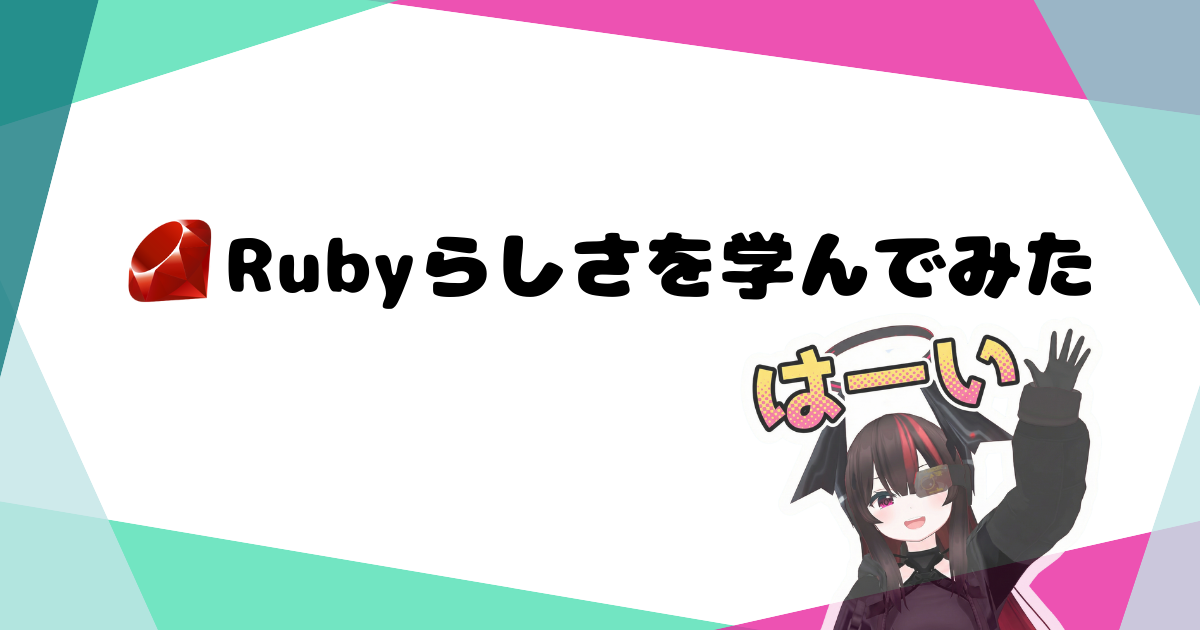
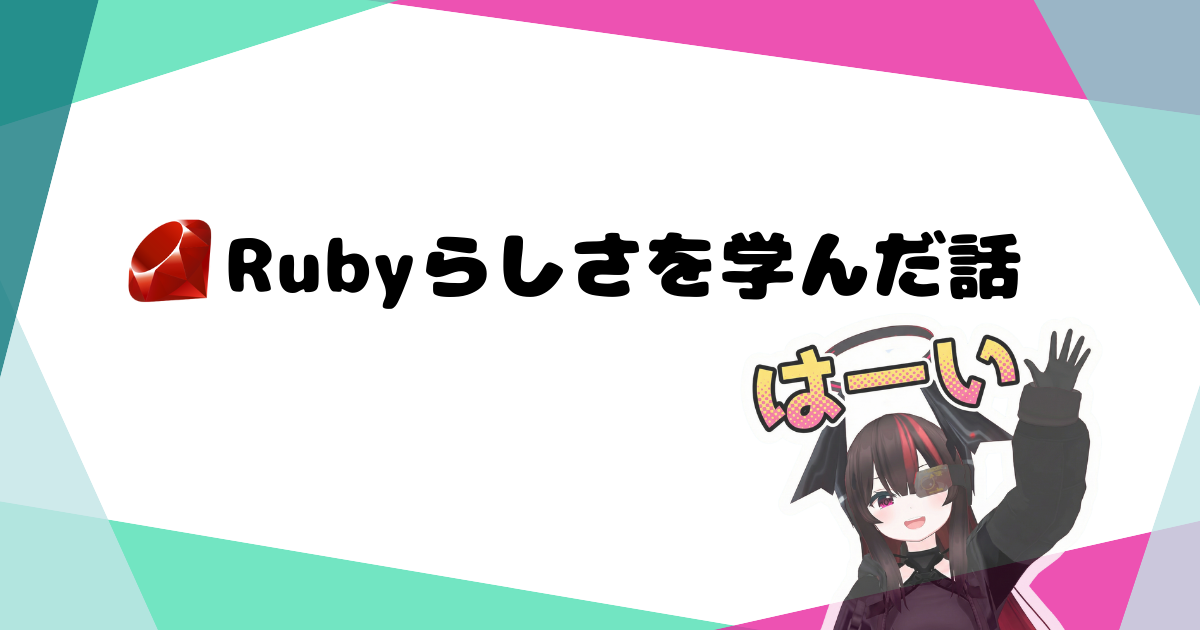
new-article: Rubyらしさを学んだ話

Changed region(s): [[0.7092, 0.3619, 0.925, 0.4825]]

diff --git a/_posts/Rubyish.md b/_posts/Rubyish.md
@@ -1,6 +1,6 @@
 --- 
 slug: Rubyish
-title: Rubyらしさを学んでみた
+title: Rubyらしさを学んだ話
 date: 2026-01-15
 description: Rubyを学び直しました。この記事ではRubyの文法Rubyらしい書き方の好きなところを書き残しておこうと思います。
 tags:
@@ -300,7 +300,7 @@ array.sort_by { |item| item[:name] }
 
 シンボルの応用として、非常にRubyらしい省略記法があります。それは`Symbol#to_proc`、通称`&:`（アンドコロン）記法と呼ばれるものです。これはブロックの引数が1つで、その引数に対してメソッドを1つ呼び出すだけの場合にコードを劇的に短くします。
 
-実行速度的には大きな差はないため完全に可読性で判断されることが多い
+実行速度的には大きな差はないため完全に可読性で判断されることが多いそう
 
 こんなの👇
 
@@ -369,7 +369,7 @@ names = users.map { |u| u[:name] }  # 通常
 # &では直接キーアクセスできない（メソッドじゃないから）
 ```
 
-この記法は非常に便利ですが、万能ではありません。ブロック内で呼び出すメソッドに引数が必要な場合は、従来通りのブロック記法を使う必要があります。
+この記法は非常に便利ですが、ブロック内で呼び出すメソッドに引数が必要な場合は、従来通りのブロック記法を使う必要があります。
 
 ```ruby
 # ❌ これは無理（引数が必要）
@@ -409,9 +409,9 @@ puts "合計: #{result[:sum]}, 平均: #{result[:avg]}, 最大: #{result[:max]},
 
 シンボルをキーとして複数の値を返せるため扱いやすい！！
 
-かつsumやmin,maxといった組み込み関数も豊富でありながら前述のメソッドチェーンのおかげでなんの処理なのかがわかりやすく感じる。
+かつsumやmin,maxといった組み込み関数も豊富でありながら前述のメソッドチェーンのおかげでなんの処理なのかがわかりやすく感じます。
 
-もしこれをC言語で実装する場合、構造体を使って定義することになる。
+もしこれをC言語で実装する場合、構造体を使って定義する方法が考えられる👇
 
 ```c
 # C言語は複数の値を返せない
@@ -420,7 +420,7 @@ puts "合計: #{result[:sum]}, 平均: #{result[:avg]}, 最大: #{result[:max]},
 //     return {sum, avg, max, min};  // エラー！
 // }
 
-// ✅ 代案1: 構造体を使う
+// ✅ 代案: 構造体を使う
 typedef struct {
     int sum;
     double avg;
@@ -452,9 +452,9 @@ C言語との比較を見ると、Rubyがいかに開発者の「書きやすさ
 
 ## ハッシュを使ったメモ化
 
-ハッシュのもう一つの強力な使い方が「メモ化」です。これは、計算コストの高い処理結果をハッシュにキャッシュしておくことで、同じ計算の繰り返しを避け、プログラムのパフォーマンスを劇的に向上させるテクニックです。フィボナッチ数列の計算は、その良い例です。
+ハッシュのもう一つの強力な使い方が「メモ化」です。これは、計算コストの高い処理結果をハッシュにキャッシュしておくことで、同じ計算の繰り返しを避け、プログラムのパフォーマンスを劇的に向上させるテクニックです。再帰処理の例としてしばしば扱われるフィボナッチ数列の計算は、その良い例です。
 
-これもCで書くとなるとかなり複雑でやはりRubyの読みやすさを感じる。
+これもCで書くとなるとかなり複雑でやはりRubyの読みやすさを感じます。
 
 ```ruby
 def fib_memo(n, memo = {}) # 空のハッシュを作っとく (配列じゃないよ)
@@ -506,11 +506,11 @@ puts [1, 2].include?(1)  # => true
 puts nil.nil?         # => true
 ```
 
-これらの規約に準拠し、自作メソッドでも命名する。
+これらの規約に準拠し、自作メソッドでも命名します。
 
 ## Rubyでのオブジェクト指向
 
-ここまで手続き的な側面に焦点を当ててきましたが、Rubyは純粋なオブジェクト指向言語でもあります。その思想は言語の隅々にまで行き渡っています。ここでは、Rubyのオブジェクト指向を特徴づけるいくつかの概念を見ていきましょう。
+ここまで手続き的な側面に焦点を当ててきましたが、Rubyは純粋なオブジェクト指向言語でもあります。その思想は言語の隅々にまで行き渡っています。ここでは、Rubyのオブジェクト指向を特徴づけるいくつかの概念を見てみます。
 
 - `@`で定義した変数はインスタンス変数(同クラスであっても他インスタンスとは独立して管理される)
 - `@@`で定義した場合はクラス変数(同クラス間で共有)
@@ -664,9 +664,11 @@ make_sound(Robot2.new("R2D2"))  # R2D2: ビービー
 
 ```
 
-CatでもRobot2でクラスをもとに作成するインスタンスであっても、speakメソッドさえ持っていればヨシとされる。
+CatでもRobot2でクラスをもとに作成するインスタンスであっても、speakメソッドさえ持っていればヨシとされます。
 
-C#のように、厳密にクラス(型)を指定しないため、どんな特定のクラスとも紐付かないインタフェースを定義することが出来る柔軟性を持っている(メソッドを定義するときに「引数は何クラスにすべきかな？」という考えではなく、「このメソッドの引数はどんなメソッドを持っているべきかな？」という振る舞いに着目できる)。
+
+C#のように、厳密にクラス(型)を指定しないため、どんな特定のクラスとも紐付かないインタフェースを定義することが出来る柔軟性を持っている(メソッドを定義するときに「引数は何クラスにすべきかな？」という考えではなく、「このメソッドの引数はどんなメソッドを持っているべきかな？」という振る舞いに着目できます)。
+
 
 この考え方により、異なるクラスのオブジェクトでも同じメソッドさえ持っていれば同様に扱えるため、柔軟で拡張性の高いコードを書くことができます。
 
@@ -710,44 +712,78 @@ class Numeric
   end
   alias :week :weeks
 end
-
-# -------使用例-------------
-expires_at = Time.now + 3.days
-valid_until = Time.now + 2.weeks
 ```
+
+### method_missingによるメタプログラミング
+
+先ほどハッシュアクセスの際に軽く言及した、Railsプロジェクトでは`person[:name]`のような`[]`でのアクセスではなく、`person.name`のようなドット記法でハッシュの値にアクセスできることがあります。
+
+
+これは**モンキーパッチ（既存クラスの拡張）ではなく**、`method_missing`というRubyのメタプログラミング機能を使って実装されています。
+
+\\
+**method_missingとは？**
+
+`method_missing`は、存在しないメソッドが呼ばれたときに自動的に実行される特殊なメソッドです。これを利用することで、動的にメソッドを定義したかのような振る舞いを実現できます。
+
+```ruby
+class HashDotAccess < Hash
+  def method_missing(method, *args)
+    # 存在しないメソッドが呼ばれたら、ハッシュのキーとして探す
+    self[method.to_sym] || self[method.to_s]
+  end
+  
+  def respond_to_missing?(method, include_private = false)
+    # このメソッドに応答できるかチェック
+    key?(method.to_sym) || key?(method.to_s) || super
+  end
+end
+
+# 使用例
+hash = HashDotAccess.new
+hash[:name] = "Ruby"
+hash[:age] = 30
+
+puts hash.name  # => "Ruby" (method_missingが呼ばれる)
+puts hash.age   # => 30
+```
+
+**Railsでの実装例**
+
+Ruby on Railsでは、`OpenStruct`や`HashWithIndifferentAccess`などのクラスがこの仕組みを活用しています：
+
+```ruby
+require 'ostruct'
+
+person = OpenStruct.new(name: "Taro", age: 25)
+puts person.name  # => "Taro"
+puts person.age   # => 25
+
+person.city = "Tokyo"  # 動的に属性を追加
+puts person.city  # => "Tokyo"
+```
+
+**モンキーパッチとの違い**
+
+- **モンキーパッチ**: 既存のクラス（例：`Hash`クラス）を後から開いてメソッドを追加・変更する
+- **method_missing**: 新しいクラスやモジュールが、存在しないメソッド呼び出しを動的に処理する
+
+\\
+つまり、ハッシュのドット記法アクセスは、`Hash`クラス自体を変更しているのではなく、`Hash`を継承した新しいクラスや`OpenStruct`のような別のクラスが`method_missing`を使って実装しているということです。
+
+この違いは重要で、モンキーパッチは既存のクラスの振る舞いを変えてしまうため影響範囲が広いのに対し、`method_missing`を使った新しいクラスは、そのクラスを使う場合のみ影響するため、より安全に機能を拡張できます。
 
 ---
 
 
 # まとめ
 
-今回の記事では、Rubyを学ぶ中で出会った「Rubyらしさ」を感じる文法や設計思想について、備忘録として書き出してみました。
+　今回の記事では、Rubyを学ぶ中で出会った「Rubyらしさ」を感じる文法や設計思想について、備忘録として書き出してみました。
 
 - **直感的な記述:** 後置`if`や`times`メソッドなど、自然言語に近い表現力。
 - **強力なメソッドチェーン:** `map`や`select`を繋げることで、宣言的にデータを操作できる。
 - **シンボルとハッシュ:** メモリ効率の良いシンボルと、柔軟なデータ構造としてのハッシュの活用。
 - **柔軟なオブジェクト指向:** ダックタイピングやモンキーパッチがもたらす高い拡張性。
+\\
 
-「プログラマの幸福」を追求するRubyの思想は、コードの書きやすさや楽しさに直結していると感じます。これらの特徴をしっかり身につけ、次のステップであるRuby on Railsの学習をさらに楽しんでいきたいと思います。
-
-
-
----
-## その他：覚えておきたいメソッド
-
-学習の中でにつまずいた点や、覚えておくと便利なメソッド等を随時残していこうと思います。
-
-### .join
-
-sqlの結合で使うJOINのような挙動をイメージしたが、これは、配列を任意の文字列で結合する(戻り値はstr)関数。
-
-```ruby
-arr = [1, 2, 3]
-puts arr.join("+")
-# > 1+2+3
-
-text = "Hello World Ruby"
-puts text.split.reverse.join(" ")
-# > Ruby World Hello
-# split ↔ join の関係(文字列から配列 ↔ 配列から文字列)
-```
+プログラマの幸福を追求するRubyの思想は、コードの書きやすさや楽しさに直結していると感じます。これらの特徴をしっかり身につけ、次のステップであるRuby on Railsの学習をさらに楽しんでいきたいと思います。
